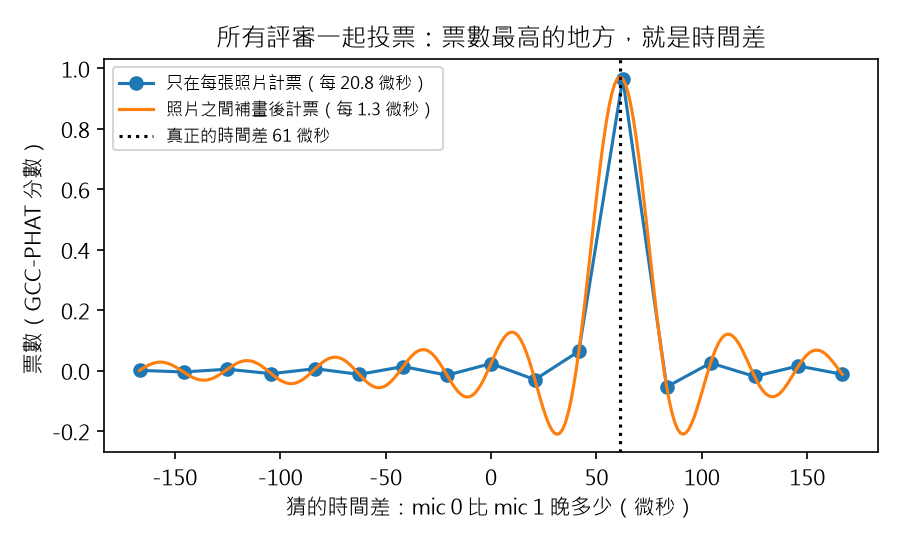
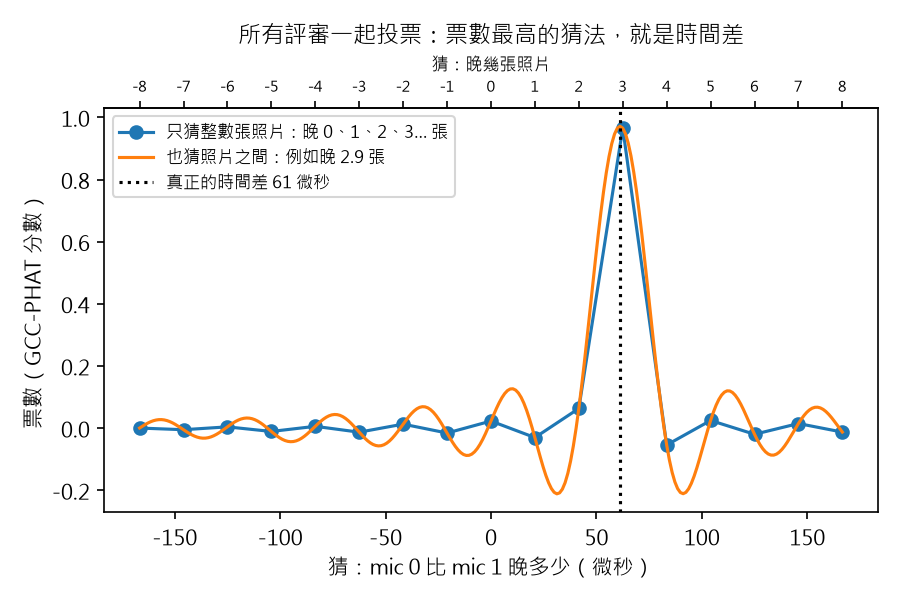
Explain the vote figure as guesses, not sound photos
Aaron mixed up the dots: in the waveform they are sound photos; in the
vote figure each dot is a guess. The figure now labels guesses ("only
whole photos: 0, 1, 2, 3 late" vs "also in between, e.g. 2.9 late"),
adds a top axis in photos, and the text says the dots mean something
different from section 2. One verb throughout: 計票.

Changed region(s): [[0.0, 0.0296, 0.9956, 0.9778], [0.6844, 0.7704, 0.7156, 0.8]]

diff --git a/scripts/step1_two_mics.py b/scripts/step1_two_mics.py
@@ -210,12 +210,12 @@ def fig_frequencies(path):
 
 
 def fig_votes(path):
-    """Section 3: the full GCC-PHAT vote, counted at photos and between them."""
+    """Section 3: the full GCC-PHAT vote, for guesses of whole photos and in between."""
     mic0, mic1, true_us = thirty_degree_signals()
-    fig, ax = plt.subplots(figsize=(6, 3.6))
+    fig, ax = plt.subplots(figsize=(6, 4))
     for interp, style, label in [
-        (1, "o-", "只在每張照片計票（每 20.8 微秒）"),
-        (16, "-", "照片之間補畫後計票（每 1.3 微秒）"),
+        (1, "o-", "只猜整數張照片：晚 0、1、2、3… 張"),
+        (16, "-", "也猜照片之間：例如晚 2.9 張"),
     ]:
         n = len(mic0) * 2
         cross = np.fft.rfft(mic0, n) * np.conj(np.fft.rfft(mic1, n))
@@ -225,10 +225,14 @@ def fig_votes(path):
         lags_us = np.arange(-k, k + 1) / (interp * FS) * 1e6
         ax.plot(lags_us, cc, style, label=label)
     ax.axvline(true_us, color="k", ls=":", label=f"真正的時間差 {true_us:.0f} 微秒")
-    ax.set_xlabel("猜的時間差：mic 0 比 mic 1 晚多少（微秒）")
+    ax.set_xlabel("猜：mic 0 比 mic 1 晚多少（微秒）")
     ax.set_ylabel("票數（GCC-PHAT 分數）")
-    ax.set_title("所有評審一起投票：票數最高的地方，就是時間差")
-    ax.legend(fontsize=8)
+    photos = ax.secondary_xaxis("top", functions=(lambda us: us * FS / 1e6, lambda p: p * 1e6 / FS))
+    photos.set_xticks(range(-8, 9))
+    photos.tick_params(labelsize=7)
+    photos.set_xlabel("猜：晚幾張照片", fontsize=8)
+    ax.set_title("所有評審一起投票：票數最高的猜法，就是時間差", fontsize=11)
+    ax.legend(fontsize=8, loc="upper left")
     fig.tight_layout()
     fig.savefig(path, dpi=150)
 

diff --git a/docs/blog/01-two-mics.md b/docs/blog/01-two-mics.md
@@ -90,12 +90,17 @@
 
 ![所有評審一起投票：票數最高的地方，就是時間差](img/step1_votes.png)
 
-這張圖不是聲音，是投票結果。橫軸是「猜的時間差」，縱軸是票數。票數最高的地方，就是答案。
+**注意：這張圖的點，和第 2 節波形圖的點意思不一樣。** 波形圖的點是「聲音照片」；
+這張圖的每一個點，是一個「猜法」。
 
-- **藍點：只在照片的時間點算票。** 照片每 20.8 微秒一張，所以只能在 0、20.8、41.7、62.5…
-  微秒這些地方算票。真正的答案 61 微秒剛好不在這些點上，藍點最高的是 62.5 微秒，差了一點。
-- **橘線：照片和照片之間也算票。** 用數學把照片之間「補畫」出來（像連連看，第 4 節會再說明），
-  每 1.3 微秒就算一次票。這樣就看得到整個尖峰的形狀，最高點剛好落在 61 微秒。
+這張圖是投票結果。我們一直猜「mic 0 比 mic 1 晚多少」，每猜一次，就請所有評審計票一次。
+橫軸是猜的答案，縱軸是這個猜法得到的票數。票數最高的猜法，就是答案。
+
+- **藍點：只猜整數張照片。** 只猜「晚 0 張、1 張、2 張、3 張……」（圖上方的刻度）。
+  真正的答案是晚 2.9 張（61 微秒），不是整數，所以沒有一個藍點剛好猜中。
+  藍點最高的是「晚 3 張」（62.5 微秒），很接近，但差了一點。
+- **橘線：也猜照片和照片之間。** 用數學把照片之間「補畫」出來（像連連看，第 4 節會再說明），
+  就能猜「晚 2.8 張」「晚 2.9 張」這種中間的答案。橘線的最高點，剛好落在真正的 61 微秒。
 
 > **深入一點：** GCC-PHAT 全名 Generalized Cross-Correlation with Phase Transform
 > （廣義互相關－相位轉換）。在頻域做互相關，再把每個頻率除以自己的大小，只留相位，
